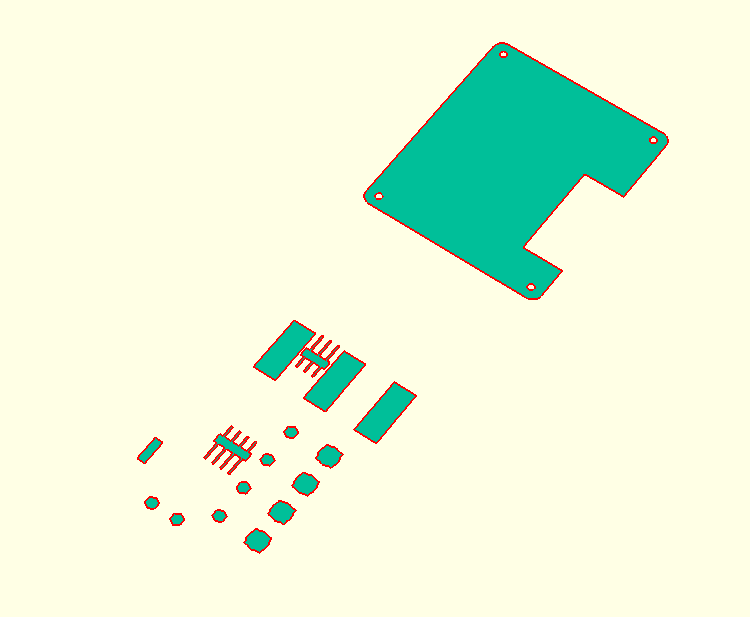
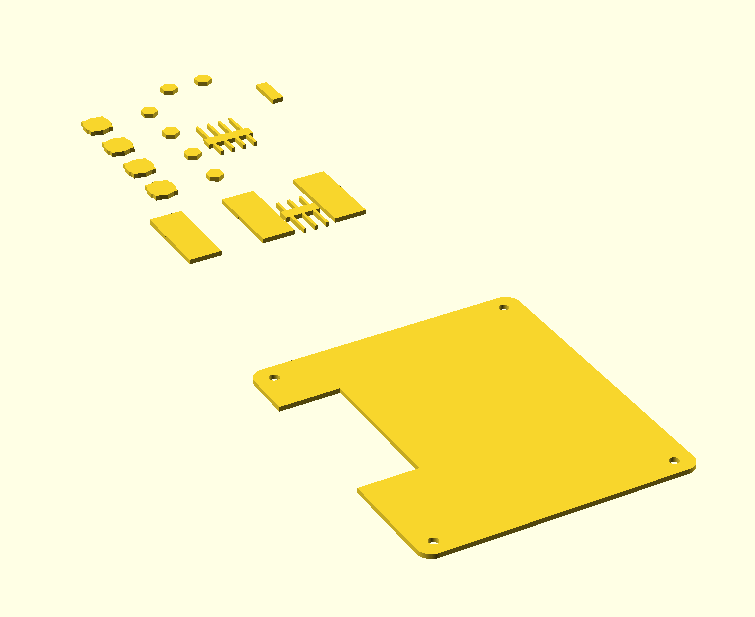
box: make projection; add TODOs

diff --git a/README.md b/README.md
@@ -40,9 +40,12 @@ make only SLICE=[lower,middle,upper,cover] STL file
 
 ## TODO
 
+- put oLED in projection (and PCB contours and hole only)
 - text with OpenSCAD version higher
 - check sizes: USB, Eth, hole for oLED (PCB <-> cover box)
 - screwing procedure
+- move code to files: box_stack.scad, HAT.scad, devices.scad, LEMO_HAT.scad, ...
+- add make projection, make STL, ...
 
 ## BUG
 
